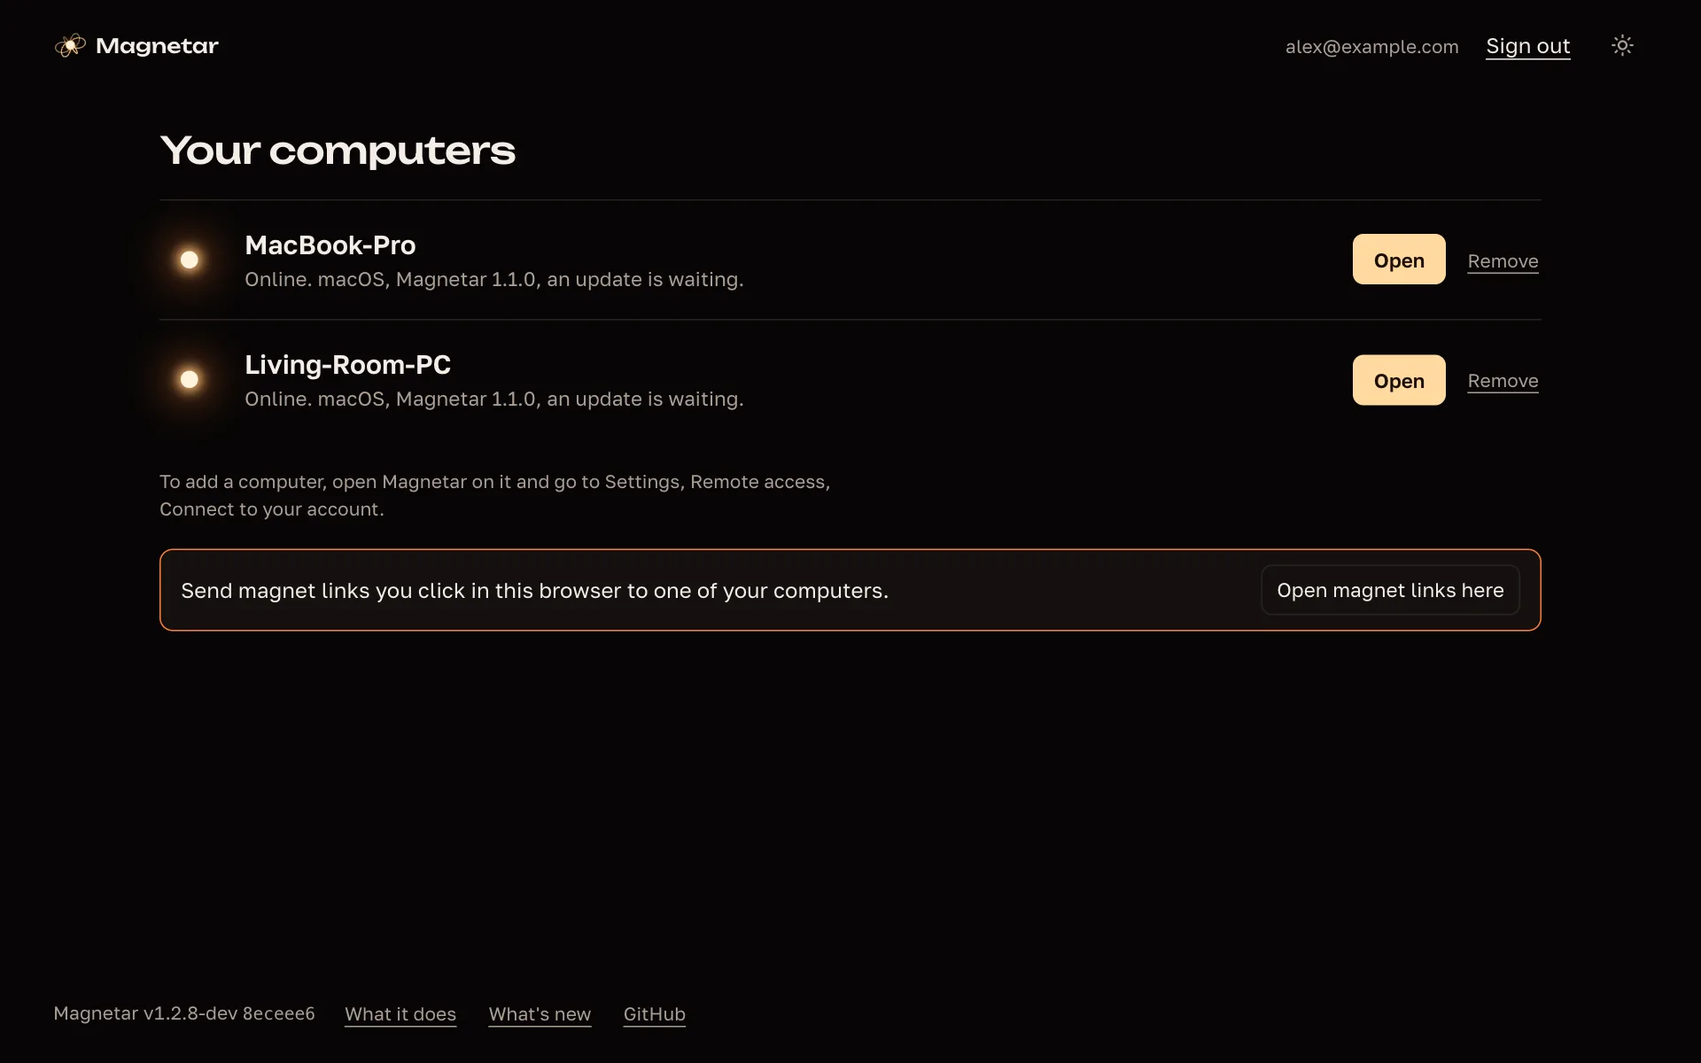
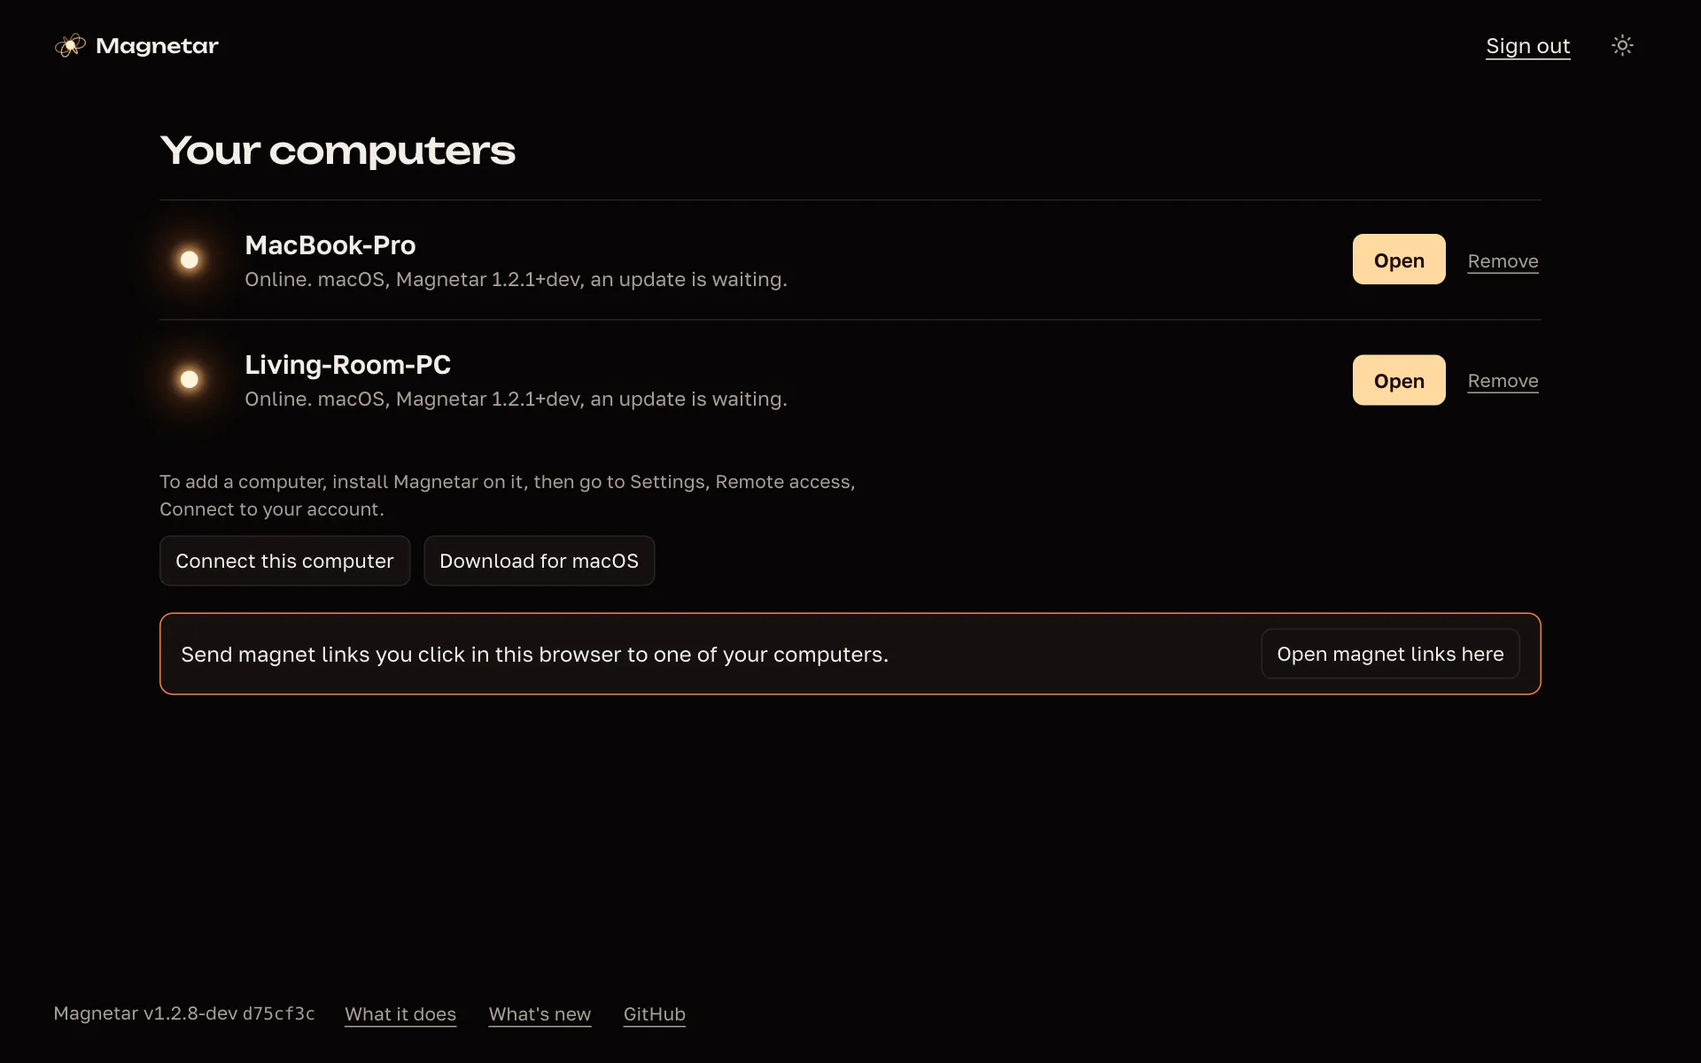
Connect this computer: the website opens Magnetar here at Connect to your account
The app answers magnetar://connect (declared in the macOS Info.plist, registered for the user on Windows and Linux at
each start) by opening Settings, Remote access with Connect to your account focused; it only opens the page. The
computers page offers Connect this computer beside the download, except on a phone, and says what should happen
once pressed. The account's address moves from the top row into Sign out's hover text.

diff --git a/apps/e2e/tests/website.e2e.ts b/apps/e2e/tests/website.e2e.ts
@@ -36,7 +36,9 @@ test('someone signed in lands on their computers at /, not on the first page', a
   await page.goto('/')
   await expect(page.getByRole('heading', { name: 'Your computers', level: 1 })).toBeVisible()
   await expect(page.getByRole('heading', { name: /Search and download/ })).toHaveCount(0)
-  await expect(page.getByRole('banner')).toContainText('alex@example.com')
+  // The account is where signing out says which one it is, not a line of its own in the top row.
+  await expect(page.getByRole('banner')).not.toContainText('alex@example.com')
+  await expect(page.getByRole('banner').getByRole('button', { name: 'Sign out', exact: true })).toHaveAttribute('title', 'Signed in as alex@example.com')
 })
 
 test('after signing in, next goes only to a path on this site', async ({ page }) => {
@@ -122,6 +124,13 @@ test('each computer shows whether this browser can open it now, and how it is', 
   // Another computer needs the app first: the download sits beside how to add one.
   await expect(page.getByText('To add a computer, install Magnetar on it, then go to Settings, Remote access, Connect to your account.')).toBeVisible()
   await expect(page.getByRole('link', { name: /^Download (for (macOS|Windows|Linux)|Magnetar)$/ })).toBeVisible()
+  // This computer opens its Magnetar at Connect; the page cannot see whether it did, so it says what to expect.
+  const connect = page.getByRole('link', { name: 'Connect this computer', exact: true })
+  await expect(connect).toHaveAttribute('href', 'magnetar://connect')
+  await expect(page.getByText('Magnetar opens at Settings, Remote access.', { exact: false })).toHaveCount(0)
+  await page.evaluate(() => addEventListener('click', event => event.preventDefault()))
+  await connect.click()
+  await expect(page.getByRole('status').filter({ hasText: 'Magnetar opens at Settings, Remote access. If nothing opens, download it first.' })).toBeVisible()
   await row(page, 'MacBook-Pro').getByRole('link', { name: 'Link: MacBook-Pro' }).click()
   await expect(page.getByRole('heading', { name: 'This browser is not linked to MacBook-Pro' })).toBeVisible()
 })
@@ -217,6 +226,17 @@ test('while the list is on its way the page says it is looking, and an account w
   await expect(page.getByRole('heading', { name: 'No computer on this account yet' })).toBeVisible()
   await expect(page.getByText('Open Magnetar on the computer and go to Settings, Remote access, Connect to your account.')).toBeVisible()
   await expect(page.getByRole('link', { name: /^Download for / })).toBeVisible()
+  await expect(page.getByRole('link', { name: 'Connect this computer', exact: true })).toHaveAttribute('href', 'magnetar://connect')
+})
+
+test('on a phone, where the app does not run, the page offers no Connect this computer', async ({ browser }) => {
+  const context = await browser.newContext({ userAgent: 'Mozilla/5.0 (iPhone; CPU iPhone OS 18_0 like Mac OS X) AppleWebKit/605.1.15 (KHTML, like Gecko) Version/18.0 Mobile/15E148 Safari/604.1', viewport: { width: 390, height: 844 }, baseURL: test.info().project.use.baseURL })
+  const page = await context.newPage()
+  await serveWebsite(page)
+  await page.goto('/')
+  await expect(page.getByRole('link', { name: 'Download Magnetar', exact: true })).toBeVisible()
+  await expect(page.getByRole('link', { name: 'Connect this computer' })).toHaveCount(0)
+  await context.close()
 })
 
 test.describe('linking this browser by code', () => {

diff --git a/apps/web/src/device/components/remoteAccess.tsx b/apps/web/src/device/components/remoteAccess.tsx
@@ -1,6 +1,7 @@
 import { reservedDeviceName, toDeviceName } from '@magnetar/protocol/device-name'
 import QRCode from 'qrcode'
 import { useEffect, useRef, useState } from 'react'
+import { useSearchParams } from 'react-router'
 import { useFormatRelative, useT } from '../../lib/i18n.tsx'
 import { CopyInput } from '../../ui/fields.tsx'
 import { SettingActions, SettingSection, SettingValue } from '../../ui/settings.tsx'
@@ -41,6 +42,8 @@ export function RemoteAccessSection() {
   const request = useRef(0)
   const [label, setLabel] = useState('')
   const [confirm, setConfirm] = useState<'unpair' | { revoke: string } | null>(null)
+  // Opened from the website's Connect this computer (magnetar://connect): Connect waits under the cursor.
+  const connectAsked = useSearchParams()[0].has('connect')
   useEffect(() => setName(remote?.deviceName ?? ''), [remote?.deviceName])
 
   const closeLink = () => {
@@ -102,11 +105,11 @@ export function RemoteAccessSection() {
   }
 
   const linkLabelId = 'magnetar-link-label'
-  const nameForm = (submit: string, onSubmit: () => void, disabled = false) => (
+  const nameForm = (submit: string, onSubmit: () => void, disabled = false, focus = false) => (
     <form className="setting-inline" onSubmit={e => { e.preventDefault(); onSubmit() }}>
       <input id="magnetar-device-name" maxLength={60} autoComplete="off" spellCheck={false} value={name} onChange={e => setName(e.target.value)}
         aria-describedby={spelled ? 'magnetar-device-address' : undefined} />
-      <button type="submit" className="infall-button quiet sm" disabled={disabled}>{submit}</button>
+      <button type="submit" className="infall-button quiet sm" disabled={disabled} autoFocus={focus}>{submit}</button>
     </form>
   )
   const nameHint = spelled && <span id="magnetar-device-address" className={reserved ? 'setting-warn' : undefined}>{reserved ? t('remote.reservedName', reserved, address) : t('remote.address', address)}</span>
@@ -124,7 +127,7 @@ export function RemoteAccessSection() {
             </SettingActions>
           </> : <>
             <div className="setting-field"><label htmlFor="magnetar-device-name">{t('remote.deviceName')}</label></div>
-            {nameForm(t('remote.connect'), () => void pair())}
+            {nameForm(t('remote.connect'), () => void pair(), false, connectAsked)}
             {nameHint && <p className="fine">{nameHint}</p>}
           </>)}
         </SettingSection>

diff --git a/apps/web/src/cloud/DevicesPage.tsx b/apps/web/src/cloud/DevicesPage.tsx
@@ -16,7 +16,7 @@ import { CloudFrame } from './CloudFrame.tsx'
 import { ComputerRow } from './ComputerRow.tsx'
 import { computerLine, computerStar } from './computerLine.ts'
 import { devicePath } from './devicePaths.ts'
-import { DownloadApp, useGetApp } from './DownloadApp.tsx'
+import { ConnectThisComputer, DownloadApp, useGetApp } from './DownloadApp.tsx'
 import { useComputers } from './useComputers.ts'
 
 /** `/` signed in: the account's computers, each with how it is and the way to open or link it. */
@@ -50,6 +50,7 @@ export function DevicesPage() {
         ) : devices.length === 0 ? (
           <Empty appearance="page" state="out" title={t('devices.emptyTitle')} text={t('devices.emptyHint')}>
             <DownloadApp />
+            <div className="site-add-actions"><ConnectThisComputer className="infall-small sm" /></div>
           </Empty>
         ) : (
           <>
@@ -97,14 +98,17 @@ export function DevicesPage() {
   )
 }
 
-/** Under the list: how to add another computer, with the app for this one's system. */
+/** Under the list: how to add another computer, connecting this one, and the app for this one's system. */
 function AddComputer() {
   const t = useT()
   const { button } = useGetApp('infall-small sm')
   return (
     <div className="site-add">
       <p className="fine">{t('devices.addHint')}</p>
-      {button}
+      <div className="site-add-actions">
+        <ConnectThisComputer className="infall-small sm" />
+        {button}
+      </div>
     </div>
   )
 }

diff --git a/apps/web/src/index.css b/apps/web/src/index.css
@@ -1002,7 +1002,6 @@ textarea.infall-field { min-height: 7rem; padding: 12px 14px; resize: vertical; 
 .site-head { display: flex; flex-wrap: wrap; align-items: center; gap: 4px 18px; padding: 12px var(--gut); }
 .site-brand { display: flex; align-items: center; gap: 6px; min-height: 44px; font: 500 15px/1 var(--cf-font-display); }
 .site-grow { flex: 1; }
-.site-who { min-width: 0; max-width: 28ch; overflow: hidden; text-overflow: ellipsis; white-space: nowrap; font-size: 14px; color: var(--cf-muted); }
 .site-main { flex: 1; width: 100%; max-width: 1120px; margin-inline: auto; padding: 0 var(--gut) 56px; }
 .site[data-narrow] .site-main { max-width: 640px; }
 .site-footer > div { display: flex; flex-wrap: wrap; align-items: center; gap: 0 20px; padding-block: 12px 20px; font-size: 14px; color: var(--cf-muted); }
@@ -1015,6 +1014,9 @@ textarea.infall-field { min-height: 7rem; padding: 12px 14px; resize: vertical; 
 .site-lead { font-size: 18px; line-height: 1.5; max-width: 58ch; }
 .site-add { display: grid; gap: 10px; justify-items: start; }
 .site-add p { max-width: 64ch; }
+.site-add-actions { display: flex; flex-wrap: wrap; gap: 10px; align-items: center; }
+.site-add-actions .connect-note { flex-basis: 100%; order: 1; }
+.site-add-actions .connect-note:empty { flex-basis: 0; }
 .infall-button.big { gap: 10px; }
 .google-logo { width: 20px; height: 20px; flex: none; }
 /* A control waiting for its answer says so with a turning ring after its words, or a still one without motion. */

diff --git a/apps/web/src/cloud/CloudFrame.tsx b/apps/web/src/cloud/CloudFrame.tsx
@@ -35,8 +35,7 @@ export function CloudFrame({ children, narrow = false }: { children: ReactNode; 
         <span className="site-grow" />
         {install && <button type="button" className="setting-link" onClick={install} title={t('install.hint')}>{t('install.button')}</button>}
         {account ? <>
-          <span className="site-who" title={account.email}>{account.email}</span>
-          <button type="button" className="setting-link" disabled={leaving} aria-busy={leaving} onClick={() => void leave()}>{t('cloud.signOut')}</button>
+          <button type="button" className="setting-link" title={t('cloud.signedInAs', account.email)} disabled={leaving} aria-busy={leaving} onClick={() => void leave()}>{t('cloud.signOut')}</button>
         </> : <>
           <Link to="/features" className="setting-link">{t('footer.features')}</Link>
           {pathname !== '/login' && <Link to="/login" className="setting-link">{t('cloud.signInLink')}</Link>}

diff --git a/apps/e2e/tests/remote.e2e.ts b/apps/e2e/tests/remote.e2e.ts
@@ -215,3 +215,13 @@ test('leaving the page with the link dialog open forgets the link', async ({ pag
   await expect(dialog(page, 'Link another browser')).toBeHidden()
   await expect(linkedToast(page)).toHaveCount(0)
 })
+
+test('opened by the website’s Connect this computer, Remote access has Connect to your account ready for Enter', async ({ page }) => {
+  // magnetar://connect opens this address (OpenTarget::Connect); the app here is on no account, so it offers to connect.
+  await page.goto('/settings/remote?connect')
+  await expect(page.getByRole('button', { name: 'Connect to your account', exact: true })).toBeFocused()
+
+  await page.goto('/settings/remote')
+  await expect(page.getByRole('button', { name: 'Connect to your account', exact: true })).toBeVisible()
+  await expect(page.getByRole('button', { name: 'Connect to your account', exact: true })).not.toBeFocused()
+})

diff --git a/apps/web/src/cloud/DownloadApp.tsx b/apps/web/src/cloud/DownloadApp.tsx
@@ -113,3 +113,21 @@ export function DownloadApp() {
     </div>
   )
 }
+
+/**
+ * Opens Magnetar on this computer at Connect to your account, through the app's own magnetar://connect link.
+ * The website cannot tell whether the app is there, so after the click it says what should happen and what to
+ * do if nothing does. Not shown on a phone, where the app does not run.
+ */
+export function ConnectThisComputer({ className }: { className: string }) {
+  const t = useT()
+  const { platform } = useAppDownload()
+  const [asked, setAsked] = useState(false)
+  if (!platform) return null
+  return (
+    <>
+      <a className={className} href="magnetar://connect" onClick={() => setAsked(true)}>{t('connect.button')}</a>
+      <p className="fine connect-note" role="status">{asked ? t('connect.opening') : ''}</p>
+    </>
+  )
+}

diff --git a/apps/web/src/features/content/pl.ts b/apps/web/src/features/content/pl.ts
@@ -198,6 +198,7 @@ export const content: FeaturesContent = {
           gain: 'Bez przepisywania kodów: aplikacja otwiera stronę, Ty zatwierdzasz, a komputer trafia na Twoje konto.',
           text: 'Przycisk „Połącz z kontem” w sekcji Ustawienia → Dostęp zdalny otwiera stronę z linkiem parowania. Zaloguj się, zatwierdź, a aplikacja odbierze swój klucz. Wybrana nazwa urządzenia staje się jego adresem.',
           points: [
+            'Albo zacznij na stronie: „Połącz ten komputer” pod listą komputerów otwiera tu aplikację przy tym przycisku',
             'Link parowania działa przez dziesięć minut, a klucz jest przekazywany tylko raz',
             'Do 20 komputerów na konto',
             'Strona przechowuje tylko hash tokenu każdego komputera',

diff --git a/apps/web/src/features/content/en.ts b/apps/web/src/features/content/en.ts
@@ -198,6 +198,7 @@ export const en: FeaturesContent = {
           gain: 'No codes to copy: the app opens the website, you approve, and the computer is yours.',
           text: 'In Settings → Remote access, "Connect to your account" opens the website with a pairing link. Sign in, approve, and the app collects its key. The device name you chose becomes its address.',
           points: [
+            'Or start on the website: Connect this computer, under your computers, opens the app here at that button',
             'A pairing link works for ten minutes, and the key is handed over once',
             'Up to 20 computers per account',
             'The website keeps only a hash of each computer\'s token',

diff --git a/apps/client/package.ts b/apps/client/package.ts
@@ -123,6 +123,10 @@ function packageMacApp(): void {
       <key>CFBundleURLName</key><string>Magnet link</string>
       <key>CFBundleURLSchemes</key><array><string>magnet</string></array>
     </dict>
+    <dict>
+      <key>CFBundleURLName</key><string>Magnetar link</string>
+      <key>CFBundleURLSchemes</key><array><string>magnetar</string></array>
+    </dict>
   </array>
   <key>CFBundleDocumentTypes</key>
   <array>

diff --git a/apps/client/src/system/handlers.rs b/apps/client/src/system/handlers.rs
@@ -4,6 +4,10 @@
 //!
 //! macOS declares both in the app's Info.plist and asks Launch Services to make it the default;
 //! Windows registers per-user classes; Linux installs a desktop entry and sets it with xdg-mime.
+//!
+//! The app's own `magnetar://connect` link, which the website's "Connect this computer" opens,
+//! needs no choice: macOS declares it in the Info.plist, and the installed app registers it on
+//! Windows and Linux each time it starts ([`register_link`]).
 
 use std::path::{Path, PathBuf};
 
@@ -21,12 +25,18 @@ pub enum HandlerStatus {
     NotDefault,
 }
 
-/// What the app was asked to open: a magnet link, or a .torrent file.
+/// What the app was asked to open: a magnet link, a .torrent file, or the website's link to connect it.
 #[derive(Debug, PartialEq, Eq)]
 pub enum OpenTarget {
     Magnet(String),
     TorrentFile(PathBuf),
+    /// `magnetar://connect`: Settings, Remote access, with Connect to your account ready to press.
+    /// It only opens the page, so a site that sends someone here cannot connect anything by itself.
+    Connect,
 }
+
+/// The scheme of the app's own links.
+const LINK_SCHEME: &str = "magnetar";
 
 impl OpenTarget {
     /// A command-line argument, or a URL macOS hands over.
@@ -37,8 +47,16 @@ impl OpenTarget {
         if argument.get(..8).is_some_and(|scheme| scheme.eq_ignore_ascii_case("magnet:?")) {
             return Some(Self::Magnet(argument.to_owned()));
         }
-        let path = match url::Url::parse(argument) {
-            Ok(url) if url.scheme() == "file" => url.to_file_path().ok()?,
+        let url = url::Url::parse(argument).ok();
+        if let Some(url) = &url
+            && url.scheme() == LINK_SCHEME
+        {
+            let connect =
+                url.host_str().is_some_and(|host| host.eq_ignore_ascii_case("connect")) && matches!(url.path(), "" | "/");
+            return connect.then_some(Self::Connect);
+        }
+        let path = match url {
+            Some(url) if url.scheme() == "file" => url.to_file_path().ok()?,
             _ => PathBuf::from(argument),
         };
         let is_torrent = path.extension().is_some_and(|e| e.eq_ignore_ascii_case("torrent"));
@@ -50,9 +68,10 @@ impl OpenTarget {
         args.into_iter().skip(1).find_map(|a| Self::parse(&a))
     }
 
-    /// The dashboard, opened on the add dialog for this.
+    /// The dashboard, opened on the add dialog for this, or on Remote access to connect.
     pub fn dashboard_link(&self, dashboard_url: &str) -> String {
         match self {
+            Self::Connect => format!("{dashboard_url}/settings/remote?connect"),
             Self::Magnet(magnet) => format!("{dashboard_url}/?add={}", encode_uri_component(magnet)),
             Self::TorrentFile(path) => format!("{dashboard_url}/?torrent={}", encode_uri_component(&path.to_string_lossy())),
         }
@@ -73,6 +92,11 @@ pub fn register() -> ApiResult<HandlerStatus> {
     }
     platform::register()?;
     Ok(status())
+}
+
+/// Makes `magnetar://` links open this app. Only the installed app does; macOS reads it from the Info.plist.
+pub fn register_link() -> anyhow::Result<()> {
+    platform::register_link()
 }
 
 #[cfg(not(target_os = "macos"))]
@@ -163,6 +187,11 @@ mod platform {
         }
         Ok(())
     }
+
+    /// Launch Services reads `magnetar://` from the Info.plist when the app is installed.
+    pub fn register_link() -> anyhow::Result<()> {
+        Ok(())
+    }
 }
 
 #[cfg(windows)]
@@ -211,6 +240,22 @@ mod platform {
         }
         Ok(())
     }
+
+    pub fn register_link() -> anyhow::Result<()> {
+        let Some(exe) = installed_exe() else { return Ok(()) };
+        let class = format!(r"{CLASSES}\{}", super::LINK_SCHEME);
+        let steps: [Vec<String>; 3] = [
+            vec![class.clone(), "/ve".into(), "/d".into(), "URL:Magnetar".into()],
+            vec![class.clone(), "/v".into(), "URL Protocol".into(), "/d".into(), String::new()],
+            vec![format!(r"{class}\shell\open\command"), "/ve".into(), "/d".into(), command(&exe)],
+        ];
+        for step in steps {
+            let args: Vec<&str> =
+                std::iter::once("add").chain(step.iter().map(String::as_str)).chain(std::iter::once("/f")).collect();
+            reg(&args).map_err(|e| anyhow::anyhow!("could not register magnetar:// links: {e}"))?;
+        }
+        Ok(())
+    }
 }
 
 #[cfg(not(any(target_os = "macos", windows)))]
@@ -253,6 +298,24 @@ mod platform {
                 return Err(ApiError::bad("Could not set the default with xdg-mime. Is xdg-utils installed?"));
             }
         }
+        let _ = hidden_command("update-desktop-database").arg(&folder).status();
+        Ok(())
+    }
+
+    /// A desktop entry of its own, so it never offers the app for magnet links the user has not given it.
+    pub fn register_link() -> anyhow::Result<()> {
+        const LINK_FILE: &str = "magnetar-link.desktop";
+        let Some(exe) = installed_exe() else { return Ok(()) };
+        let mime = format!("x-scheme-handler/{}", super::LINK_SCHEME);
+        let entry = format!(
+            "[Desktop Entry]\nType=Application\nName=Magnetar\nExec={} %u\nTerminal=false\nNoDisplay=true\nMimeType={mime};\n",
+            super::exec_argument(&exe.display().to_string())
+        );
+        let folder = applications();
+        std::fs::create_dir_all(&folder)?;
+        std::fs::write(folder.join(LINK_FILE), entry)?;
+        let done = hidden_command("xdg-mime").args(["default", LINK_FILE, mime.as_str()]).status();
+        anyhow::ensure!(done.is_ok_and(|s| s.success()), "xdg-mime could not set {mime}; is xdg-utils installed?");
         let _ = hidden_command("update-desktop-database").arg(&folder).status();
         Ok(())
     }
@@ -309,6 +372,25 @@ mod tests {
         }
         let args = ["/Applications/x".to_owned(), "-psn_0_1".to_owned(), magnet.to_owned()];
         assert_eq!(OpenTarget::from_args(args), Some(OpenTarget::Magnet(magnet.into())), "the program name is skipped");
+    }
+
+    #[test]
+    fn the_websites_connect_link_is_the_only_magnetar_link() {
+        // Browsers add a slash, Windows may change the case; macOS hands the URL over as typed.
+        for link in ["magnetar://connect", "magnetar://connect/", "MAGNETAR://Connect", "magnetar://connect?from=site"] {
+            assert_eq!(OpenTarget::parse(link), Some(OpenTarget::Connect), "{link}");
+        }
+        for nothing in
+            ["magnetar:", "magnetar://", "magnetar://pair", "magnetar://connect/now", "magnetar:connect", "https://connect"]
+        {
+            assert_eq!(OpenTarget::parse(nothing), None, "{nothing}");
+        }
+        let args = ["C:\\Magnetar.exe".to_owned(), "magnetar://connect/".to_owned()];
+        assert_eq!(OpenTarget::from_args(args), Some(OpenTarget::Connect), "Windows and Linux pass it as an argument");
+        assert_eq!(
+            OpenTarget::Connect.dashboard_link("http://localhost:47820"),
+            "http://localhost:47820/settings/remote?connect"
+        );
     }
 
     #[test]

diff --git a/apps/client/src/main.rs b/apps/client/src/main.rs
@@ -49,7 +49,7 @@ fn main() -> anyhow::Result<()> {
     magnetar::log::init(Some(paths.logs.clone()), *IS_DEV);
     tracing::info!("Magnetar {} starting (data: {})", build_label(), paths.data_dir.display());
 
-    // Opened for a magnet link or a .torrent file (Windows and Linux pass it as an argument).
+    // Opened for a magnet link, a .torrent file or magnetar://connect (Windows and Linux pass it as an argument).
     let opened = OpenTarget::from_args(std::env::args());
     let runtime = tokio::runtime::Builder::new_multi_thread().enable_all().build()?;
     let handle = runtime.handle().clone();
@@ -78,6 +78,12 @@ fn main() -> anyhow::Result<()> {
     let _ = app.updates.dashboard_url.set(dashboard_url.clone());
     app.agent.publish(&dashboard_url);
     lock.publish(&dashboard_url);
+    // The website's "Connect this computer" opens magnetar://connect; registering is cheap and keeps it pointing at this copy.
+    std::thread::spawn(|| {
+        if let Err(error) = magnetar::system::handlers::register_link() {
+            tracing::warn!("Could not register magnetar:// links: {error:#}");
+        }
+    });
     if let Some(opened) = &opened {
         open_in_browser(&opened.dashboard_link(&dashboard_url));
     }
